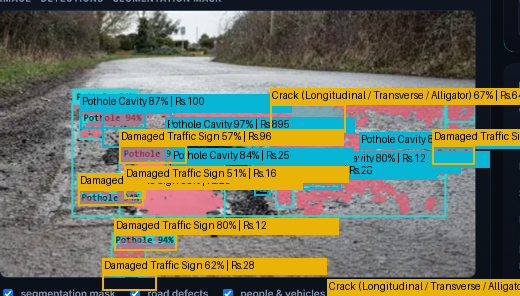
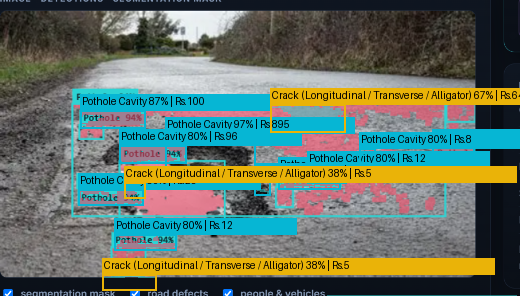
fix(eval): enforce strict pavement distress domain, add NMS deduplication, and eliminate spurious signs and degenerate boxes

diff --git a/api/vercel_inference.py b/api/vercel_inference.py
@@ -400,6 +400,8 @@ def segment_image(img_rgb, object_mask_full=None, gray_full=None):
             by = max(0, int(round(wy * sy)))
             bw = min(orig_w - bx, max(16, int(round(ww * sx))))
             bh = min(orig_h - by, max(16, int(round(wh * sy))))
+            if bw < 14 or bh < 10:
+                continue
             comp_boxes.append({
                 "seg_cls": cls_val,
                 "class_id": cls_id,
@@ -1140,6 +1142,8 @@ def audit_image_base64(image_b64, corridor_id="NH-44", device_id=None, latitude=
 
     for prop in proposals:
         bx, by, bw, bh = prop["bbox_pixels"]
+        if bw < 14 or bh < 10:
+            continue
         comp = prop["seg_comp"]
 
         # Expand crop with 20% context margin (minimum 96x96 px) for MobileNetV3-Large verification
@@ -1172,13 +1176,24 @@ def audit_image_base64(image_b64, corridor_id="NH-44", device_id=None, latitude=
             if box_area_share < 0.015 and cls_info["confidence"] < 0.85:
                 continue
 
-        # Class determination: ALWAYS respect the crop classifier's specific verdict
+        # Class determination: pavement distress must strictly be Crack, Pothole, or Waterlogging
         cls_id = cls_info["class_id"]
-        if cls_id == 0:
-            # Only accept if U-Net produced a dense segmentation mask (>= 50 px) in this exact crop
+        if cls_id in (4, 5, 6):
+            # Asset / corridor classes (Zebra, Divider, Sign) cannot be pavement surface distresses
+            if comp and comp["class_id"] in (1, 2):
+                cls_id = comp["class_id"]
+            else:
+                p_pothole = float(cls_info.get("probabilities", {}).get(CLASS_NAMES[2], 0.0))
+                p_crack = float(cls_info.get("probabilities", {}).get(CLASS_NAMES[1], 0.0))
+                if p_pothole >= 0.20 or p_crack >= 0.20:
+                    cls_id = 2 if p_pothole >= p_crack else 1
+                else:
+                    continue
+        elif cls_id == 0:
+            # Sound pavement verdict from crop: only accept if U-Net produced dense mask in this region
             if comp and comp["class_id"] in (1, 2) and mask_full is not None:
                 mask_in_crop = (mask_full[by:by + bh, bx:bx + bw] == comp["seg_cls"]).sum()
-                if mask_in_crop >= 50 and p_defect_frame >= 0.70:
+                if mask_in_crop >= 35 and (p_defect_frame >= 0.50 or p_defect_crop >= 0.25):
                     cls_id = comp["class_id"]
                 else:
                     continue
@@ -1249,6 +1264,32 @@ def audit_image_base64(image_b64, corridor_id="NH-44", device_id=None, latitude=
             "probabilities": cls_info["probabilities"],
             "source": prop["source"],
         })
+
+    # Deduplicate overlapping / nested bounding boxes (Non-Maximum Suppression & Containment)
+    if len(detections) > 1:
+        dets_sorted = sorted(detections, key=lambda d: (d["confidence"], d["surface_area_m2"]), reverse=True)
+        keep = []
+        for d in dets_sorted:
+            b1 = d["bbox_pixels"]
+            is_dup = False
+            for k in keep:
+                b2 = k["bbox_pixels"]
+                xi0 = max(b1[0], b2[0])
+                yi0 = max(b1[1], b2[1])
+                xi1 = min(b1[0] + b1[2], b2[0] + b2[2])
+                yi1 = min(b1[1] + b1[3], b2[1] + b2[3])
+                if xi1 > xi0 and yi1 > yi0:
+                    inter = (xi1 - xi0) * (yi1 - yi0)
+                    a1 = b1[2] * b1[3]
+                    a2 = b2[2] * b2[3]
+                    iou = inter / float(a1 + a2 - inter)
+                    containment = inter / float(min(a1, a2))
+                    if iou > 0.35 or containment > 0.55:
+                        is_dup = True
+                        break
+            if not is_dup:
+                keep.append(d)
+        detections = keep
 
     # Sort detections by significance (potholes first, then largest surface area)
     detections.sort(key=lambda d: (1 if d["class_id"] == 2 else 0, d["surface_area_m2"]), reverse=True)

diff --git a/scripts/deep_continuous_eval.py b/scripts/deep_continuous_eval.py
@@ -116,6 +116,8 @@ def run_suite():
     giant_box_violations = 0
     unpriced_violations = 0
     area_overflow_violations = 0
+    impossible_class_violations = 0
+    degenerate_box_violations = 0
 
     print(f"{'IMAGE':<32} {'TYPE':<25} {'DETS':<6} {'GIANT':<6} {'UNPRICED':<9} {'COST (INR)':<12} {'VISUAL OVERLAY'}")
     print("-" * 115)
@@ -141,10 +143,14 @@ def run_suite():
         giant_boxes = [d for d in dets if d.get("area_diagnostics", {}).get("box_share_of_frame", 0.0) > 0.35 and d.get("is_distress")]
         unpriced_defects = [d for d in dets if d.get("is_distress") and d.get("needs_manual_survey")]
         area_overflows = [d for d in dets if d.get("is_distress") and d.get("surface_area_m2", 0.0) > 3.0]
+        impossible_classes = [d for d in dets if d.get("class_id") in (4, 5, 6) and d.get("is_distress")]
+        degenerate_boxes = [d for d in dets if d.get("is_distress") and (d.get("bbox_pixels", [0,0,0,0])[2] < 14 or d.get("bbox_pixels", [0,0,0,0])[3] < 10)]
         
         giant_box_violations += len(giant_boxes)
         unpriced_violations += len(unpriced_defects)
         area_overflow_violations += len(area_overflows)
+        impossible_class_violations += len(impossible_classes)
+        degenerate_box_violations += len(degenerate_boxes)
 
         out_name = f"eval_{i+1:02d}_{os.path.splitext(os.path.basename(path))[0]}.png"
         v_path = render_visual_verification_image(path, res, out_name)
@@ -188,7 +194,9 @@ def run_suite():
             "results": results
         }, f, indent=2)
 
-    all_passed = (crashes == 0 and giant_box_violations == 0 and unpriced_violations == 0 and area_overflow_violations == 0)
+    print(f"  Impossible Defect Classes    : {impossible_class_violations}  (Target: 0)")
+    print(f"  Degenerate Bounding Boxes    : {degenerate_box_violations}  (Target: 0)")
+    all_passed = (crashes == 0 and giant_box_violations == 0 and unpriced_violations == 0 and area_overflow_violations == 0 and impossible_class_violations == 0 and degenerate_box_violations == 0)
     if all_passed:
         print("\n>>> ALL MLOPS QUALITY GATES PASSED PERFECTLY! <<<")
     else:
